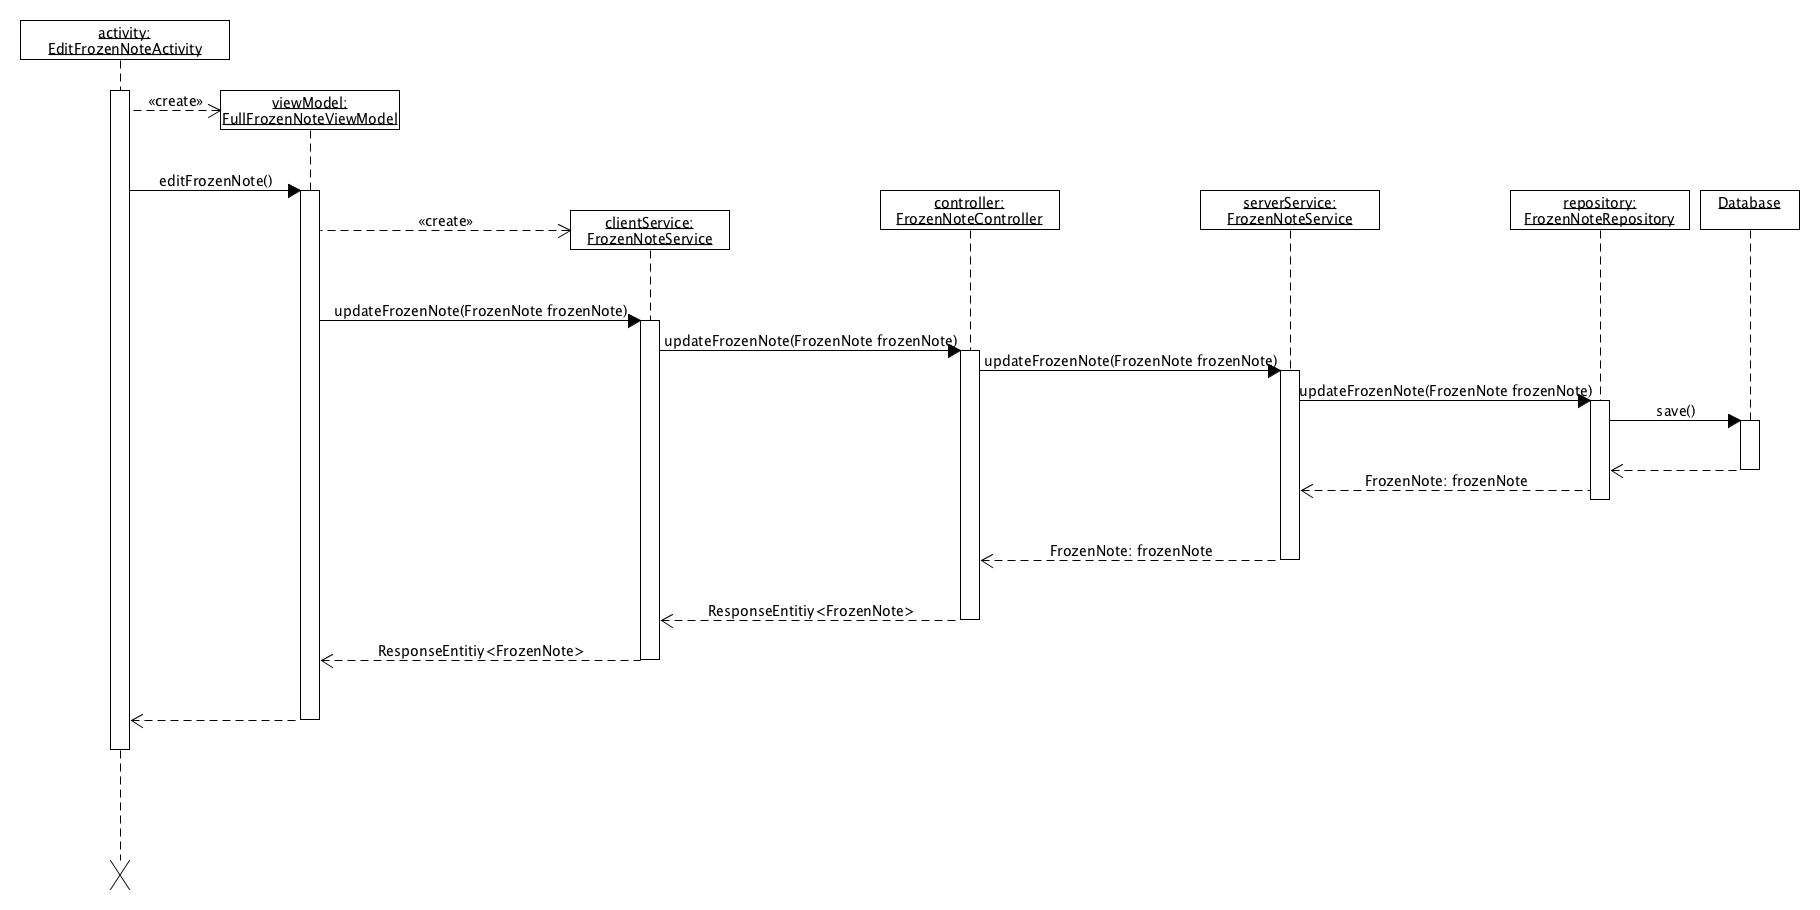
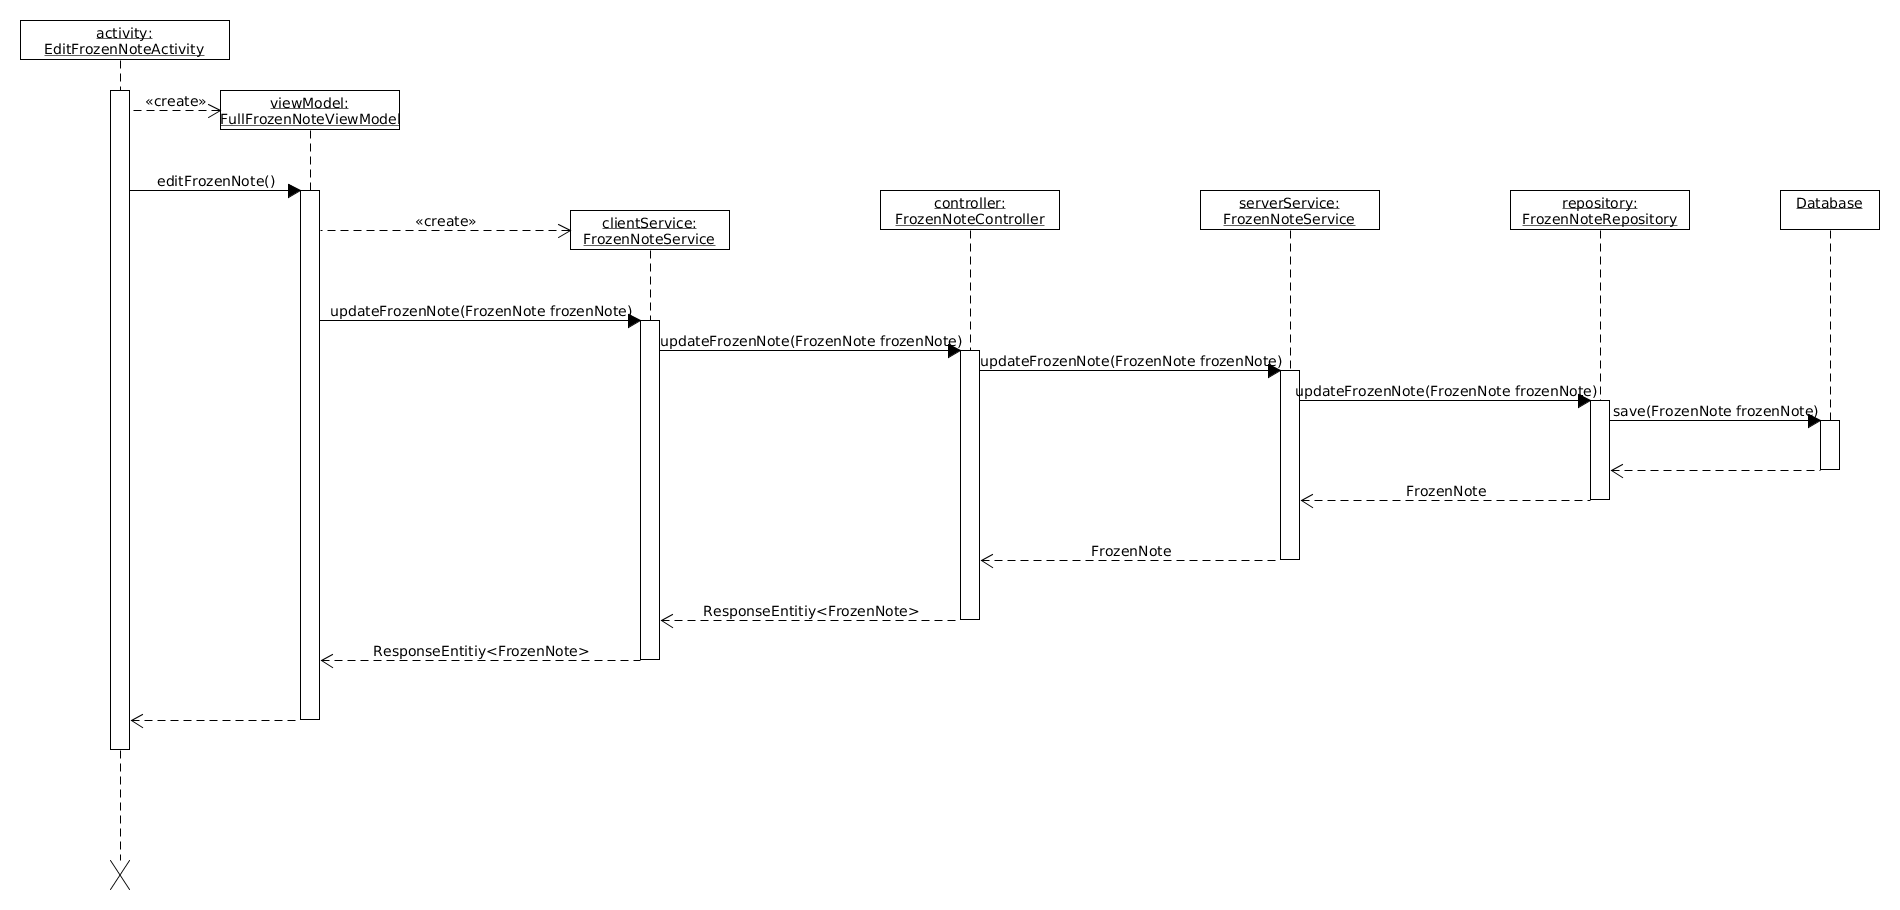
Correct small errors in sequence diagram and a few namings

diff --git a/documentation/Entwurf/Dynamische-Modelle/WG-verlassen-text.tex b/documentation/Entwurf/Dynamische-Modelle/WG-verlassen-text.tex
@@ -1,3 +1,3 @@
-\subsection{Ablauf der Methode leaveFlatShare()}
+\subsection{Ablauf der Methode leaveFlatshare()}
 
-Die Methode leaveFlatShare() dient zum Verlassen einer WG. Sie wird in der Activity HomeActivity ausgeführt. Als Erstes wird das zugehörige Viewmodel zur Activity, nämlich das HomeViewModel, verwendet. Darauffolgend wird die Methode leaveFlatShare(), die in der View-Model-Klasse steht, aufgerufen. In dieser Methode wird der zugehörige Service des Clients, MembershipService, erstellt, der dann die Verknüpfung zur Server-Seite herstellt. Die Methode deleteMember() des Services wird aufgerufen und als Parameter werden die FlatshareID und die UserID übergeben. Es wird ein HTTP DELETE Request an den Server gesendet bzw. an den zugehörigen Controller. Im MembershipController wird die Methode deleteMembership() aufgerufen. Im FrozenNoteService des Servers wird ebenfalls eine Methode deleteMembership() aufgerufen. Das MembershipRepository ist verantwortlich für die Datenpersistenz und löscht nun also die User-Daten aus der Datenbank. Auf dem Rückweg zur Activity wird schlussendlich eine Response gesendet.
+Die Methode leaveFlatshare() dient zum Verlassen einer WG. Sie wird in der Activity HomeActivity ausgeführt. Als Erstes wird das zugehörige Viewmodel zur Activity, nämlich das HomeViewModel, verwendet. Darauffolgend wird die Methode leaveFlatShare(), die in der View-Model-Klasse steht, aufgerufen. In dieser Methode wird der zugehörige Service des Clients, MembershipService, erstellt, der dann die Verknüpfung zur Server-Seite herstellt. Die Methode deleteMember() des Services wird aufgerufen und als Parameter werden die FlatshareId und die UserId übergeben. Es wird ein HTTP DELETE Request an den Server gesendet bzw. an den zugehörigen Controller. Im MembershipController wird die Methode deleteMembership() aufgerufen. Im MembershipService des Servers wird ebenfalls eine Methode deleteMembership() aufgerufen. Das MembershipRepository ist verantwortlich für die Datenpersistenz und löscht nun also die User-Daten aus der Datenbank. Auf dem Rückweg zur Activity wird schlussendlich eine Response gesendet.
